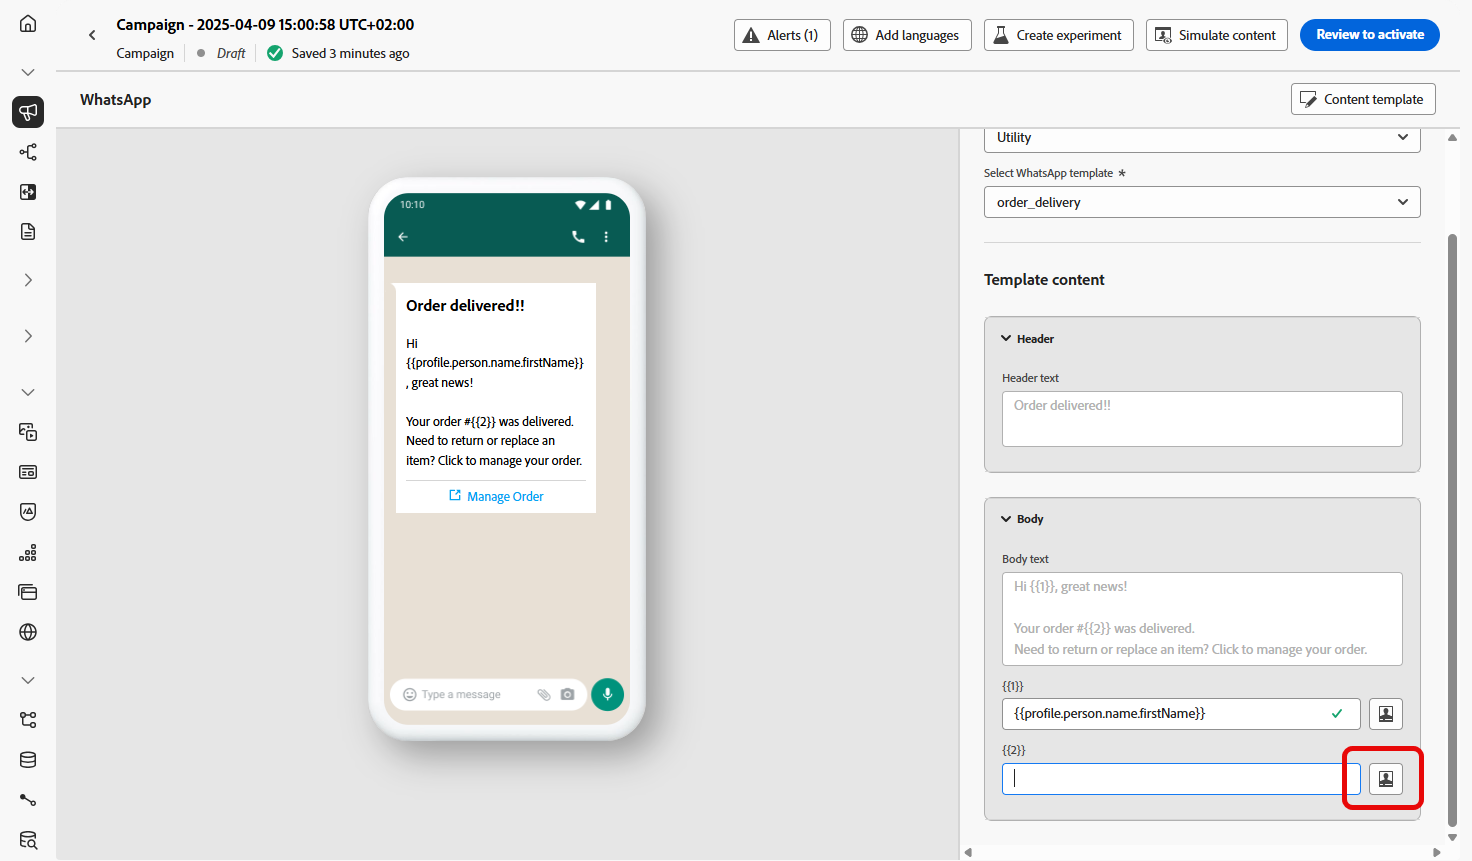
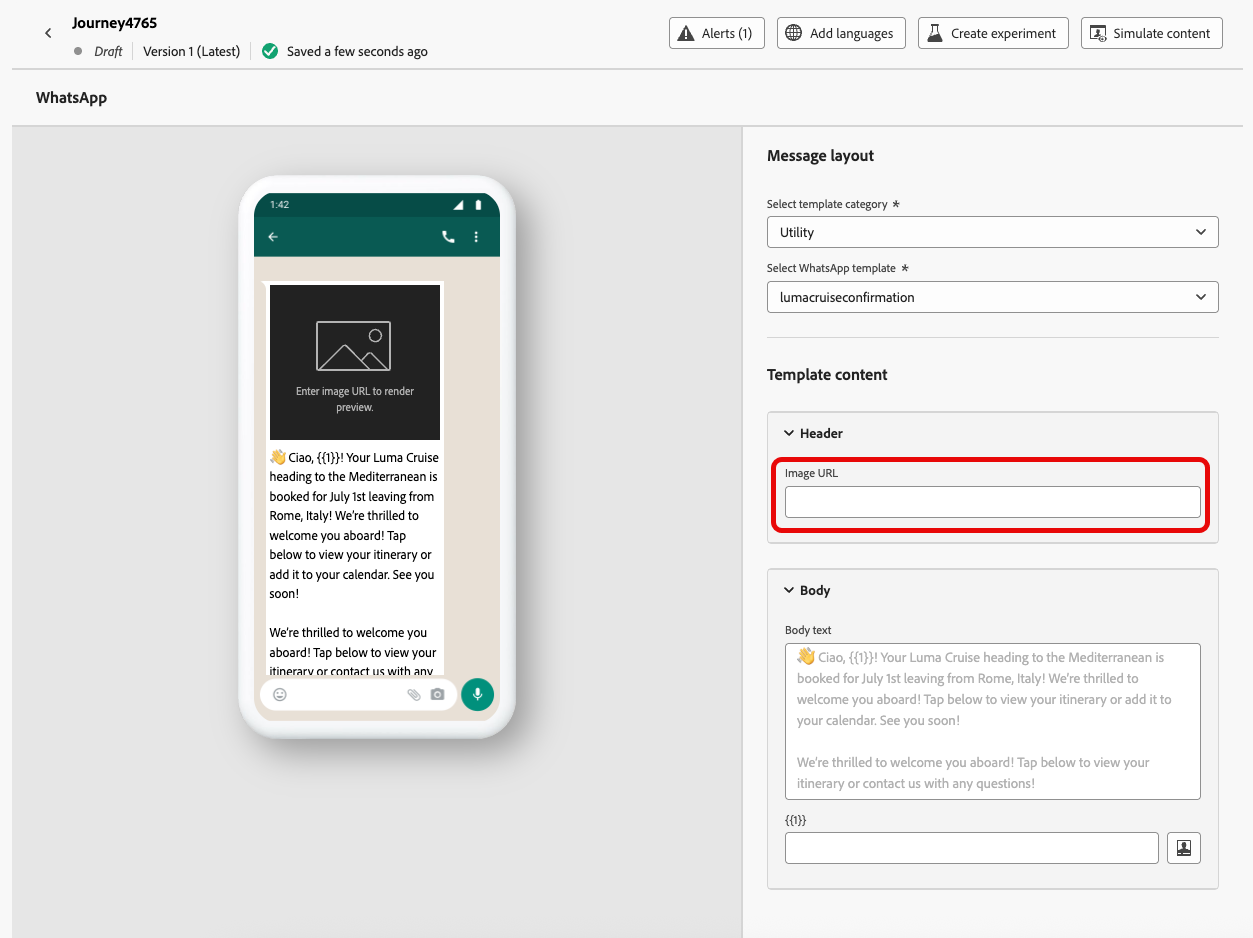
Update whatsapp

diff --git a/help/using/whatsapp/whatsapp-configuration.md b/help/using/whatsapp/whatsapp-configuration.md
@@ -24,14 +24,14 @@ These steps must be performed by an Adobe Journey Optimizer [System Administrato
 
 1. Configure your API credentials, as detailed below:
 
-    * **API Token**: Enter your API token. Learn more in [Meta Documentation](https://developers.facebook.com/docs/facebook-login/guides/access-tokens/)
+    * **API Token**: Enter your API token. Learn more in [Meta Documentation](https://developers.facebook.com/blog/post/2022/12/05/auth-tokens/)
     * **Business Account ID**: Enter the unique number related to your business portfolio. Learn more in [Meta Documentation](https://www.facebook.com/business/help/1181250022022158?id=180505742745347).
 
     ![](assets/whatsapp-api.png)
 
 1. Click **[!UICONTROL Continue]**.
 
-1. Choose the **Business Account** you want to connect to your WhatsApp API credentials.
+1. Choose the **WhatsApp Business Account** you want to connect to your WhatsApp API credentials.
 
     ![](assets/whatsapp-api-2.png)
 
@@ -50,7 +50,7 @@ These steps must be performed by an Adobe Journey Optimizer [System Administrato
 
 1. Click **[!UICONTROL Submit]** when you finished the configuration of your API credentials.
 
-After creating and configuring your API credential, you now need to create a channel configuration for WhatsApp messages. [Learn more](#whatsapp-configuration)
+After creating and configuring your API credential, you now need to create your Webhook for WhatsApp messages. [Learn more](#whatsapp-webhook)
 
 ## Create Webhook {#WhatsApp-webhook}
 
@@ -78,7 +78,7 @@ After creating and configuring your API credential, you now need to create a cha
 >
 >Without specified opt-in or opt-out keywords, standard consent messages are not enabled.
 
-Once your WhatsApp API credentials and your [Meta Webhooks](https://developers.facebook.com/docs/whatsapp/webhooks/) have been successfully created, the next step is to create a webhook and configure your inbound settings.
+Once your WhatsApp API credentials have been successfully created, the next step is to create a webhook and configure your inbound settings.
 
 1. In the left rail, navigate to **[!UICONTROL Administration]** `>` **[!UICONTROL Channels]**, select the **[!UICONTROL WhatsApp Webhooks]** menu under **[!UICONTROL WhatsApp settings]**, and click the **[!UICONTROL Create Webhook]** button.
 
@@ -117,7 +117,11 @@ Once your WhatsApp API credentials and your [Meta Webhooks](https://developers.f
 
     ![](assets/webhook-5.png)
 
-1. To modify existing configuration, locate the desired Webhook and click the **[!UICONTROL Edit]** option to make the necessary changes.
+1. To modify existing configuration and access your **[!UICONTROL Webhook URL]** or **[!UICONTROL Webhook Verify toker]**, locate the desired Webhook and click the **[!UICONTROL Edit]** option to make the necessary changes.
+
+1. Copy your **[!UICONTROL Webhook Verify toker]** generated here, then paste it into the Meta interface as part of your Webhook setup. 
+
+    For detailed instructions on how and where to add this verification token, refer to [Meta documentation](https://developers.facebook.com/docs/graph-api/webhooks/getting-started#configure-webhooks-product).
 
 1. Access and copy your new **[!UICONTROL Webhook URL]** from your previously submitted **[!UICONTROL WhatsApp Webhook]**.
 
@@ -147,7 +151,7 @@ Now that your Webhook is configured, you can create your WhatsApp configuration.
 
     ![](assets/whatsapp-config-3.png)
 
-1. Enter the **[!UICONTROL Sender number]** you want to use for your communications.
+1. Enter the **[!UICONTROL Sender name]** you want to use for your communications.
 
 1. Once all the parameters have been configured, click **[!UICONTROL Submit]** to confirm. You can also save the channel configuration as draft and resume its configuration later on.
 

diff --git a/help/using/whatsapp/get-started-whatsapp.md b/help/using/whatsapp/get-started-whatsapp.md
@@ -24,12 +24,9 @@ You can now send WhatsApp messages directly through Journey Optimizer via Meta's
 Integrating WhatsApp with Journey Optimizer requires the following:
 
 * Meta Business Manager account
-* WhatsApp Business account
-* WhatsApp phone number
+* [WhatsApp Business Account with verified sender name and phone number](https://developers.facebook.com/docs/whatsapp/overview/business-accounts/)
 * [User authorization token with appropriate permissions](https://developers.facebook.com/blog/post/2022/12/05/auth-tokens/) 
 * [Approved Meta templates](https://developers.facebook.com/docs/whatsapp/message-templates/guidelines/)
-* [Configuration of Meta Webhooks](https://developers.facebook.com/docs/whatsapp/webhooks/)
-
 
 You also need to aknowledge the following before proceeding with integration:
 
@@ -43,7 +40,7 @@ The following limitations apply to the WhatsApp channel:
 
 * The WhatsApp channel in Adobe Journey Optimizer is HIPAA-ready, but third-party vendors are not covered under Adobe's BAA. Customers are responsible for their own compliance and vendor validation.
 
-* Note that automated or predefined response messages are not be supported.
+* Note that automated or predefined response messages are not yet supported.
 
 * Starting April 2025, delivery of all marketing template messages to WhatsApp users who have a United States phone number (a number composed of a +1 dialing code and a US area code) has been temporally suspended. [Learn more in Meta documentation](https://developers.facebook.com/docs/whatsapp/cloud-api/guides/send-message-templates#per-user-marketing-template-message-limits)
 

diff --git a/help/using/whatsapp/create-whatsapp.md b/help/using/whatsapp/create-whatsapp.md
@@ -36,7 +36,8 @@ The following call-to-action option is available for your WhatsApp messages:
 | Call to actions | Description |
 |-|-|
 | Visit website| Only one button is permitted, with variable parameters included.|
-
+| Call on WhatsApp| Provides a button that opens a WhatsApp chat with the specified phone number directly from the message.|
+| Call phone number | Provides a button that initiates a phone call to the specified number when tapped by the user.|
 
 +++
 
@@ -127,11 +128,15 @@ Note that your WhatsApp template must first be approved by Meta before using it 
 
     ![](assets/whatsapp-design-2.png)
 
+1. In the Image URL field, add media URLs to replace any placeholders in your template. Meta's template media are only placeholders. To display images, audio, or video correctly, you must use external URLs from Adobe Experience Manager or other sources.
+
+    ![](assets/whatsapp-design-3.png)
+
 1. Use the personalization editor to add personalization to your template. You can use any attribute, such as the profile name or city for example. 
 
     Browse through the following page to learn more about [personalization](../personalization/personalize.md).
 
-    ![](assets/whatsapp-design-3.png)
+    ![](assets/whatsapp-design-4.png)
 
 1. Use the **[!UICONTROL Simulate content]** button to preview your WhatsApp message content, shortened URLs, and personalized content. [Learn more](send-whatsapp.md)
 
